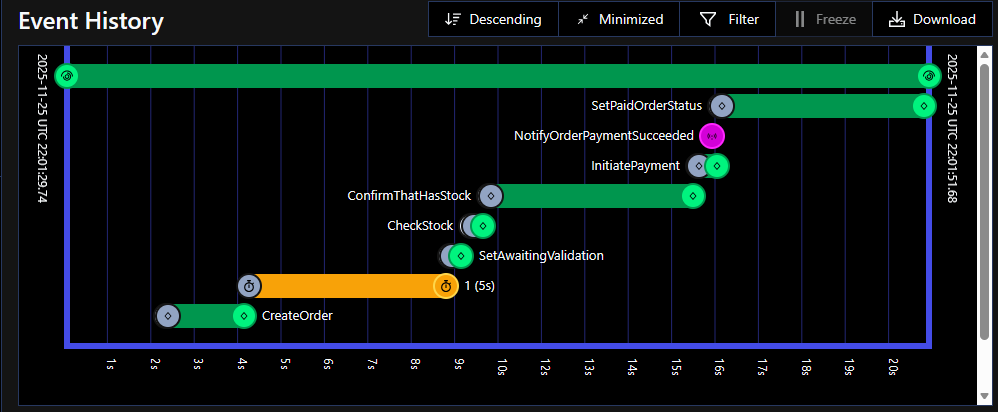
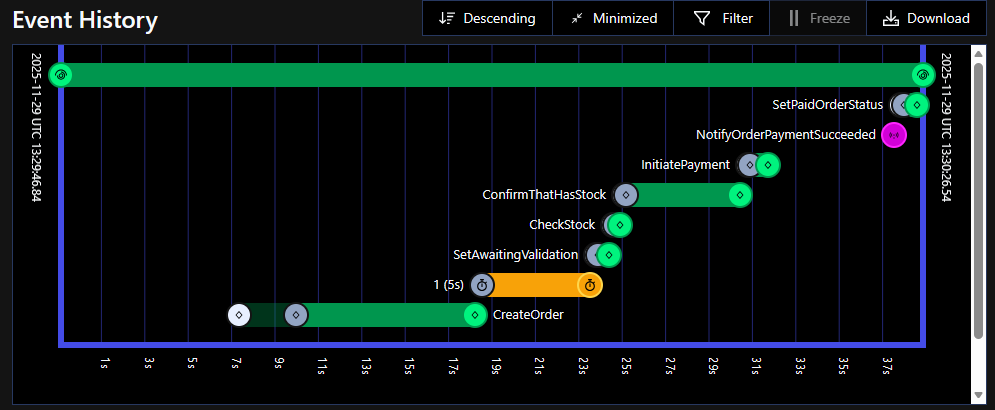
Simulate a delay receiving the callback from the payment service

diff --git a/src/PaymentProcessor/PaymentWorkflowMockDelay.cs b/src/PaymentProcessor/PaymentWorkflowMockDelay.cs
@@ -1,0 +1,70 @@
+using Temporalio.Activities;
+using Temporalio.Client;
+using Temporalio.Workflows;
+
+namespace PaymentProcessor
+{
+
+    /// <summary>
+    /// This work flow is just to simulate the delay between the payment sesstion start and the payment confirmation, otherwise we could consider 
+    /// to create a payment worklow as child of the main order workflow EShopWorkflow
+    /// </summary>
+    [Workflow]
+    public class PaymentWorkflowMockDelay
+    {
+
+
+
+        [WorkflowRun]
+        public async Task RunAsync(int OrderId, string orderyGuid)
+        {
+
+            //Simulate payment flow delay, between the checkout and the receivment of  callback from an payment service
+            await Temporalio.Workflows.Workflow.DelayAsync(TimeSpan.FromSeconds(5));
+
+            // After delay, simulate that a callback from the payment service has been received  signal the workflow that payment succeeded or failed
+            // similar to https://docs.stripe.com/payments/checkout/how-checkout-works?payment-ui=stripe-hosted#complete-transaction
+            await Temporalio.Workflows.Workflow.ExecuteActivityAsync(
+                            (PaymentWorkflowMockDelayActivities act) => act.NotifyOrderPaymentResult(OrderId, orderyGuid),
+                            new ActivityOptions { StartToCloseTimeout = TimeSpan.FromMinutes(5) });
+        }
+    }
+
+    public class PaymentWorkflowMockDelayActivities
+    {
+
+
+        readonly ITemporalClient _temporalClient;
+        readonly IOptionsMonitor<PaymentOptions> _options;
+        readonly ILogger<PaymentWorkflowMockDelay> _logger;
+        public PaymentWorkflowMockDelayActivities(ITemporalClient temporalClient,
+                                        IOptionsMonitor<PaymentOptions> options,
+                                        ILogger<PaymentWorkflowMockDelay> logger)
+        {
+            _temporalClient = temporalClient;
+            _options = options;
+            _logger = logger;
+        }
+
+
+
+        [Activity]
+        public async Task NotifyOrderPaymentResult(int OrderId, string orderyGuid)
+        {
+            var handle = _temporalClient.GetWorkflowHandle(orderyGuid);
+
+            if (_options.CurrentValue.PaymentSucceeded)
+            {
+                _logger.LogInformation("Payment succeeded for OrderId: {OrderId}, signaling workflow.", OrderId);
+                await handle.SignalAsync("NotifyOrderPaymentSucceeded", []);
+
+
+            }
+            else
+            {
+                _logger.LogWarning("Payment failed for OrderId: {OrderId}, signaling workflow.", OrderId);
+                await handle.SignalAsync("NotifyOrderPaymentFailed", []);
+            }
+        }
+    }
+}

diff --git a/src/PaymentProcessor/PaymentProcessorApi.cs b/src/PaymentProcessor/PaymentProcessorApi.cs
@@ -1,4 +1,5 @@
-using Microsoft.Extensions.Options;
+using System.Threading;
+using Microsoft.Extensions.Options;
 using Temporalio.Client;
 
 namespace PaymentProcessor
@@ -14,7 +15,7 @@ namespace PaymentProcessor
 
 
 
-            v1.MapPost("confirm", async (
+            v1.MapPost("confirm", async (CancellationToken cancellationToken,
                 ConfirmPaymentRequest @event,
                 ITemporalClient temporalClient,
                 IOptionsMonitor<PaymentOptions> options,
@@ -22,24 +23,13 @@ namespace PaymentProcessor
             {
                 logger.LogInformation("Processing payment confirmation request for OrderId: {OrderId}, OrderGuid: {OrderGuid}", @event.OrderId, @event.OrderyGuid);
 
-                var handle = temporalClient.GetWorkflowHandle(@event.OrderyGuid);
+                // Simulate payment flow
+                //await Task.Delay(5000, cancellationToken);
 
+                var workflowId = $"Payment_Processing_mock{@event.OrderyGuid}";
+                await temporalClient.StartWorkflowAsync((PaymentWorkflowMockDelay wf) => wf.RunAsync(@event.OrderId, @event.OrderyGuid), new WorkflowOptions(workflowId, "eshop-payment-mock-task-queue") );
 
-                if (options.CurrentValue.PaymentSucceeded)
-                {
-                    logger.LogInformation("Payment succeeded for OrderId: {OrderId}, signaling workflow.", @event.OrderId);
-                    await handle.SignalAsync("NotifyOrderPaymentSucceeded", []);
-
-
-                }
-                else
-                {
-                    logger.LogWarning("Payment failed for OrderId: {OrderId}, signaling workflow.", @event.OrderId);
-                    await handle.SignalAsync("NotifyOrderPaymentFailed", []);
-                }
-
-                logger.LogInformation("Payment confirmation request handled successfully for OrderId: {OrderId}.", @event.OrderId);
-                return Results.Ok(new { Message = "Integration event handled successfully." });
+                return Results.Ok(new { Message = "Processing payment confirmation started." });
             }).WithName("ConfirmPayment")
                 .WithSummary("Confirm Payment")
                 .WithDescription("Request payment confirmation")

diff --git a/src/eShop.AppHost/Program.cs b/src/eShop.AppHost/Program.cs
@@ -47,6 +47,7 @@ var catalogApi = builder.AddProject<Projects.Catalog_API>("catalog-api")
 var orderingApi = builder.AddProject<Projects.Ordering_API>("ordering-api")
     .WithReference(rabbitMq).WaitFor(rabbitMq)
     .WithReference(orderDb).WaitFor(orderDb)
+    .WithReference(temporalServer).WaitFor(temporalServer)
     .WithHttpHealthCheck("/health")
     .WithEnvironment("Identity__Url", identityEndpoint);
 
@@ -56,7 +57,8 @@ builder.AddProject<Projects.OrderProcessor>("order-processor")
     .WaitFor(orderingApi); // wait for the orderingApi to be ready because that contains the EF migrations
 
 var paymentProcessor = builder.AddProject<Projects.PaymentProcessor>("payment-processor")
-    .WithReference(rabbitMq).WaitFor(rabbitMq);
+    .WithReference(rabbitMq).WaitFor(rabbitMq)
+    .WithReference(temporalServer).WaitFor(temporalServer);
 
 builder.AddProject<Projects.Temporal_Workflow>("temporal-workflow")
     .WithReference(temporalServer).WaitFor(temporalServer)

diff --git a/src/PaymentProcessor/Program.cs b/src/PaymentProcessor/Program.cs
@@ -1,4 +1,5 @@
 using PaymentProcessor;
+using Temporalio.Extensions.Hosting;
 
 
 
@@ -13,6 +14,16 @@ var withApiVersioning = builder.Services.AddApiVersioning();
 
 builder.AddDefaultOpenApi(withApiVersioning);
 
+// Temporal worker
+builder.Services
+    .AddHostedTemporalWorker(
+        clientTargetHost: "localhost:7233",
+        clientNamespace: "default",
+        taskQueue: "eshop-payment-mock-task-queue")
+    .AddScopedActivities<PaymentWorkflowMockDelayActivities>()
+    .AddWorkflow<PaymentWorkflowMockDelay>();
+
+
 var app = builder.Build();
 
 app.MapDefaultEndpoints();
@@ -22,7 +33,10 @@ app.UseStatusCodePages();
 app.MapPaymentProcessorEndpoints();
 
 app.UseDefaultOpenApi();
-app.Run();
+
+await app.RunAsync();
+
+
 
 
 

diff --git a/src/Ordering.API/Application/Commands/SetStockRejectedOrderStatusCommandHandler.cs b/src/Ordering.API/Application/Commands/SetStockRejectedOrderStatusCommandHandler.cs
@@ -19,7 +19,7 @@ public class SetStockRejectedOrderStatusCommandHandler : IRequestHandler<SetStoc
     public async Task<bool> Handle(SetStockRejectedOrderStatusCommand command, CancellationToken cancellationToken)
     {
         // Simulate a work time for rejecting the stock
-        await Task.Delay(5000, cancellationToken);
+        await Task.Delay(250, cancellationToken);
 
         var orderToUpdate = await _orderRepository.GetAsync(command.OrderNumber);
         if (orderToUpdate == null)

diff --git a/src/Ordering.API/Application/Commands/SetPaidOrderStatusCommandHandler.cs b/src/Ordering.API/Application/Commands/SetPaidOrderStatusCommandHandler.cs
@@ -19,7 +19,7 @@ public class SetPaidOrderStatusCommandHandler : IRequestHandler<SetPaidOrderStat
     public async Task<bool> Handle(SetPaidOrderStatusCommand command, CancellationToken cancellationToken)
     {
         // Simulate a work time for validating the payment
-        await Task.Delay(5000, cancellationToken);
+        await Task.Delay(250, cancellationToken);
 
         var orderToUpdate = await _orderRepository.GetAsync(command.OrderNumber);
         if (orderToUpdate == null)
